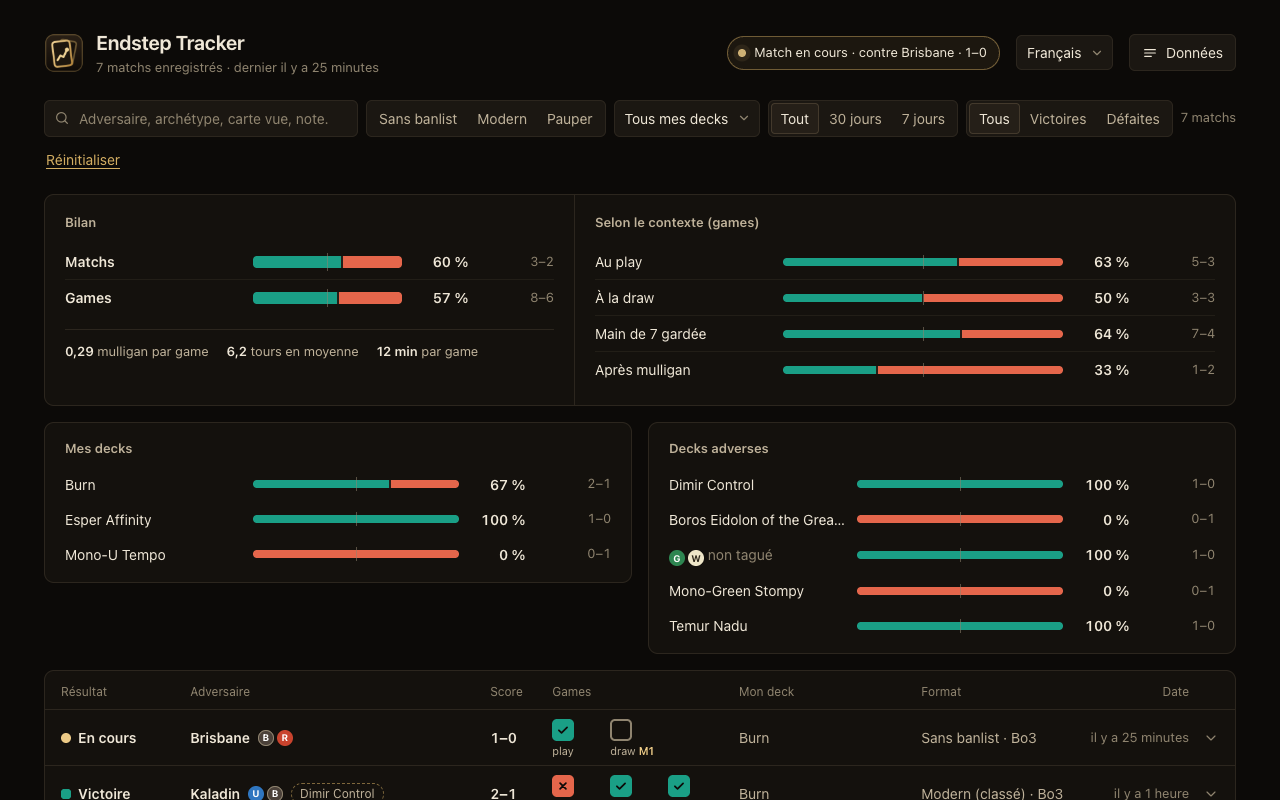
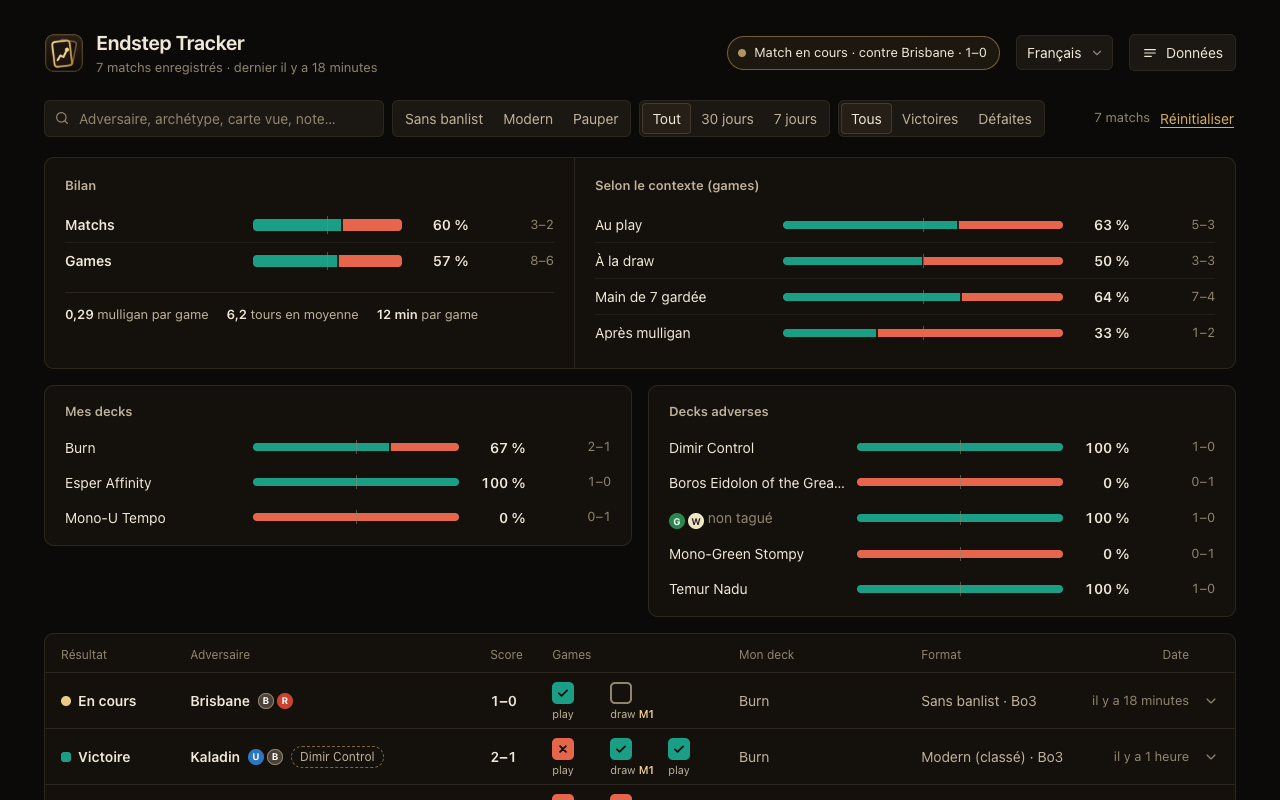
Filter bar keeps its layout across clicks: fixed-width search, reset link reserves its width
The search box no longer flexes into the space the count and the reset link take, and the reset link
is hidden by visibility (the page's [hidden] rule collapses it), so nothing shifts when a filter is set.

diff --git a/dashboard.html b/dashboard.html
@@ -99,7 +99,7 @@
 
     /* ---- filters ---- */
     .filters { display: flex; flex-wrap: wrap; align-items: center; gap: 8px; margin-bottom: 20px; }
-    .search { position: relative; flex: 1 1 280px; display: flex; }
+    .search { position: relative; flex: 0 1 340px; display: flex; } /* fixed width: the bar must not reflow when the count, the reset link or a facet appear */
     .search svg { position: absolute; left: 10px; top: 50%; translate: 0 -50%; color: var(--ink-3); pointer-events: none; }
     .search input { width: 100%; padding-left: 34px; }
     .search input::-webkit-search-cancel-button {
@@ -115,7 +115,8 @@
     .facet { display: inline-flex; align-items: center; gap: 6px; padding: 4px 6px 4px 10px; border-radius: 999px; background: rgb(212 174 98 / .12); border: 1px solid rgb(212 174 98 / .4); font-size: 13px; }
     .facet button { display: inline-grid; place-items: center; width: 20px; height: 20px; border: 0; border-radius: 50%; background: none; color: var(--ink-2); cursor: pointer; }
     .facet button:hover { background: rgb(212 174 98 / .2); color: var(--ink); }
-    .count { color: var(--ink-3); font-size: 13px; margin-left: auto; }
+    .count { color: var(--ink-3); font-size: 13px; margin-left: auto; font-variant-numeric: tabular-nums; }
+    #reset.off { visibility: hidden; } /* keeps its width so the count does not move ([hidden] would collapse it) */
 
     /* ---- panels ---- */
     .panel { background: var(--surface); border: 1px solid var(--line); border-radius: var(--radius); }
@@ -382,7 +383,7 @@
       </div>
       <span id="facet" class="facet" hidden><span id="facet-label"></span><button id="facet-clear" data-i18n-attr="aria-label:remove_filter"><svg class="i"><use href="#i-x"/></svg></button></span>
       <span id="count" class="count" aria-live="polite"></span>
-      <button id="reset" class="link" hidden data-i18n="reset"></button>
+      <button id="reset" class="link off" data-i18n="reset"></button>
     </div>
 
     <section id="overview" class="panel overview" data-i18n-attr="aria-label:overview"></section>

diff --git a/dashboard.js b/dashboard.js
@@ -498,7 +498,7 @@ function renderHeader() {
 
 function renderFilters(list) {
   $('#count').textContent = tn('n_matches', list.length) + (list.length !== matches.length ? t('of_total', { total: matches.length }) : '');
-  $('#reset').hidden = !filtersActive();
+  $('#reset').classList.toggle('off', !filtersActive());
   $('#facet').hidden = !state.opp;
   if (state.opp) $('#facet-label').textContent = t('opponent_facet', { label: state.opp.label });
   for (const seg of document.querySelectorAll('.seg[data-filter]')) {
